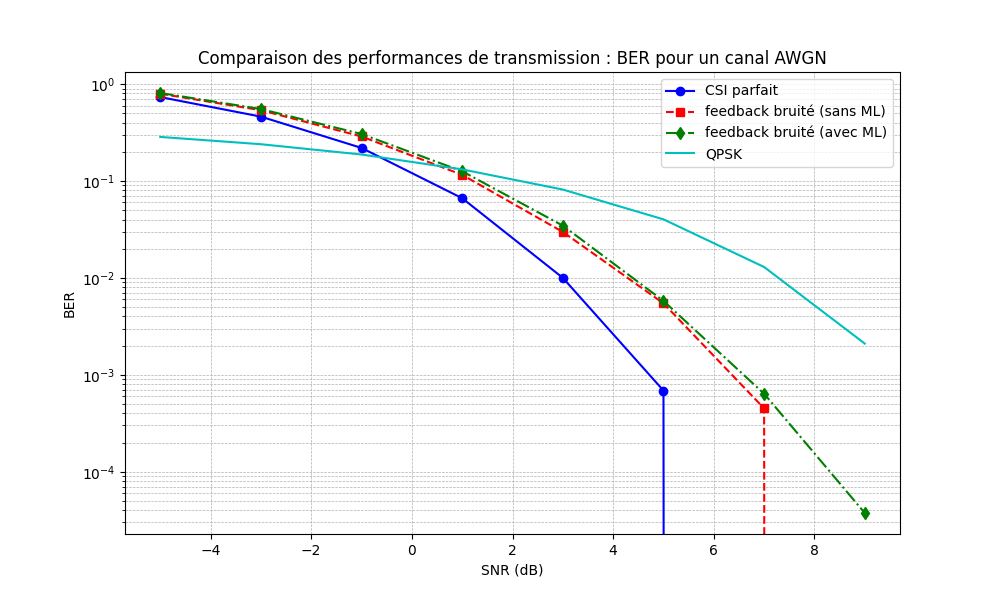
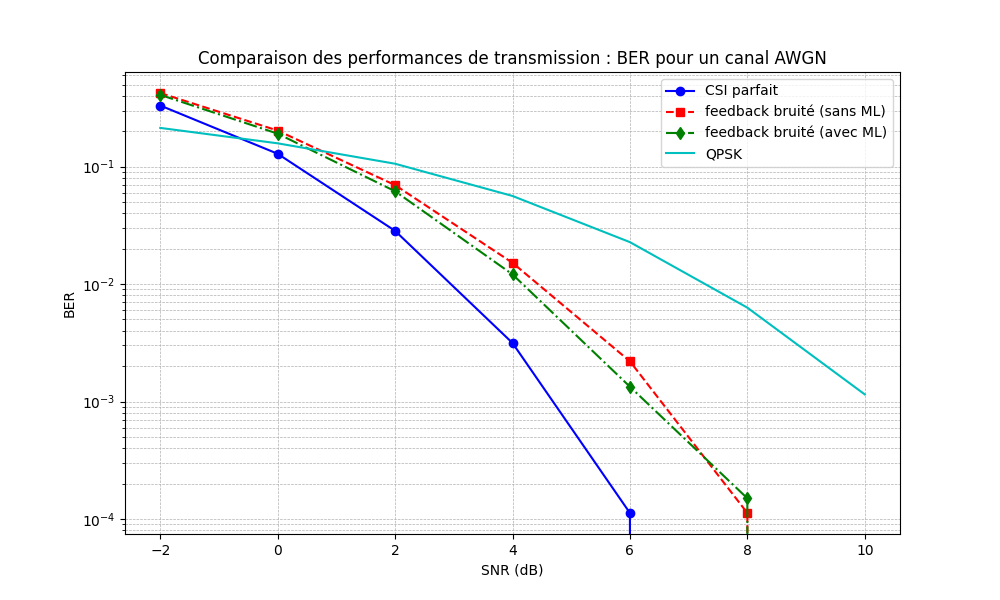
test

Changed region(s): [[0.062, 0.12, 0.899, 0.93], [0.093, 0.84, 0.124, 0.87]]

diff --git a/evaluate.py b/evaluate.py
@@ -112,7 +112,6 @@ def evaluate_autoencoder(encoder, decoder, m, n, k, snr_db, chann_type, n_sample
             # Vérifier que la taille est un multiple de k
             num_symbols = predicted_message.shape[0]
             if num_symbols % k != 0:
-                print(f"Avertissement: Tronquage de {num_symbols % k} éléments pour correspondre à k={k}")
                 predicted_message = predicted_message[:num_symbols - (num_symbols % k)]
                 message = message[:num_symbols - (num_symbols % k)]
             total_symbol_errors += np.sum(np.any(predicted_message.reshape(-1, k) != message.reshape(-1, k), axis=1))
@@ -137,10 +136,10 @@ def evaluate_autoencoder(encoder, decoder, m, n, k, snr_db, chann_type, n_sample
     return metrics
 
 snr_values = np.arange(-2, 11, 2)  # SNR en dB
-n_samples = 20000  # Nombre d'échantillons pour l'évaluation
+n_samples = 30000  # Nombre d'échantillons pour l'évaluation
 m, n = 16, 7  # Paramètres de l'autoencodeur
 k = int(math.log2(m))
-chann_type = 'Rayleigh'
+chann_type = 'AWGN'
 
 encoder_perfect, decoder_perfect, _ = load_models(m, n, prefix='perfect_', chann_type=chann_type, use_csi=False)
 encoder_feedback, decoder_feedback, _ = load_models(m, n, prefix='noisy_', chann_type=chann_type, use_csi=True)
@@ -186,13 +185,13 @@ for snr in snr_values:
 
 # Tracé BER vs SNR
 plt.figure(figsize=(10, 6))
-plt.semilogy(snr_values, results['perfect']['ber'], 'b-o', label='CSI parfait')
-plt.semilogy(snr_values, results['ml']['ber'], 'r--s', label='feedback bruité (sans ML)')
-plt.semilogy(snr_values, results['noisy']['ber'], 'g-.d', label='feedback bruité (avec ML)')
+plt.semilogy(snr_values, results['perfect']['ber'], 'b-o', label='Perfect CSI')
+plt.semilogy(snr_values, results['ml']['ber'], 'r--s', label='Noisy feedback (no corrected)')
+plt.semilogy(snr_values, results['noisy']['ber'], 'g-.d', label='Noisy feedback (with ML correction)')
 plt.semilogy(snr_values, ber_qpsk, 'c', label='QPSK')
 plt.xlabel('SNR (dB)')
 plt.ylabel('BER')
-plt.title('Comparaison des performances de transmission : BER pour un canal ' + chann_type)
+plt.title('Comparison of transmission performance: BER for one channel ' + chann_type + ' channel')
 plt.grid(True, which='both', linestyle='--', linewidth=0.5)
 plt.legend()
 plt.savefig(f"plots/{chann_type}_BER.png")

diff --git a/channel.py b/channel.py
@@ -100,7 +100,7 @@ def plot_channel_distribution(snr_db=10, n_samples=10000, chann_type="AWGN", K_r
 
     plt.xlabel("Amplitude")
     plt.ylabel("Density")
-    plt.title(f"Signal distribution after the channel {chann_type}")
+    plt.title(f"Signal distribution after passing through {chann_type}")
     plt.legend()
     plt.grid()
     plt.savefig(f"plots/{chann_type}_distribution.png")
@@ -195,9 +195,9 @@ def plot_channel_distribution_CSI(x, snr_db, chann_type="AWGN", K_rician=3, sigm
         plt.plot(x_range, rice.pdf(x_range, b, scale=sigma), 'r-', label="Theoretical")
 
 
-    plt.xlabel("Valeur du signal")
-    plt.ylabel("Densité")
-    plt.title(f"Distribution du signal après le canal {chann_type} (CSI bruité)")
+    plt.xlabel("Amplitude")
+    plt.ylabel("Density")
+    plt.title(f"Signal distribution after passing through {chann_type} (Noisy CSI)")
     plt.legend()
     plt.grid()
     plt.savefig(f"plots/{chann_type}_distribution_CSI.png")
@@ -205,7 +205,7 @@ def plot_channel_distribution_CSI(x, snr_db, chann_type="AWGN", K_rician=3, sigm
 
 
 
-"""
+
 # Affichage des distributions simulées et théoriques
 plot_channel_distribution(snr_db=10, chann_type="AWGN")
 plot_channel_distribution(snr_db=10, chann_type="Rayleigh")
@@ -223,7 +223,7 @@ plot_channel_distribution_CSI(x=torch.ones(10000), snr_db=10, chann_type="Raylei
 plot_channel_distribution_CSI(x=torch.ones(10000), snr_db=10, chann_type="Rician", K_rician=3, sigma_CSI=1.0)
 
 plt.show()
-"""
+
 
 def feedback_csi(true_csi, snr_feedback, compression_level, delay=0, binary=False, feedback_model=None, use_ml=True):
     """
